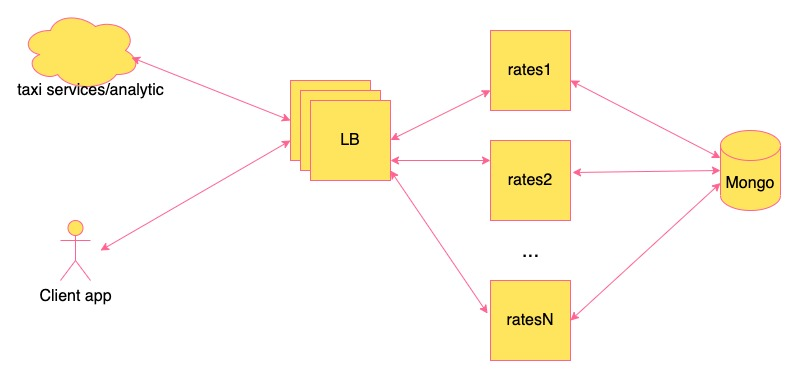
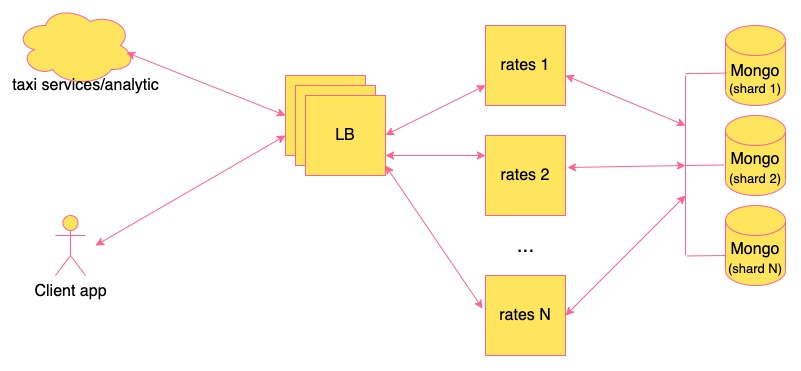
rating: Update last schema

diff --git a/nikita-vasilev/solution.md b/nikita-vasilev/solution.md
@@ -50,17 +50,21 @@
 ![DB Schema](assets/mvp_dp_schema.jpg)
 
 ### Полноценный сервис
-Для того, чтобы подготовить наш сервис к нагрузке, добавим балансировщики (LB) и размажем нагрузку на несколько инстансов (контейнеров).  
-Для выбора кол-ва инстансов проведем нагрузочное тестирование.
+Для того, чтобы подготовить наш сервис к нагрузке:
+- добавим балансировщики (LB), сконфигурированные через DNS.
+- размажем нагрузку на несколько инстансов (контейнеров).  
+
+Для выбора кол-ва LB/инстансов проведем нагрузочное тестирование.
 
 Захардкоженную констану `40` (лимит кол-ва последних оценок при вычислении рейтинга)
 вынесем в адмику основной системы. Добавим обращение в админку при старте сервиса и добавим ручку для подцепления конфига из админки.
 
 В качесве базы перейдем на MongoDB, т.к у нас:
-- результаты построения MVP показывают, что нет необходимости в реляционной БД
+- результаты построения MVP показывают, что нет необходимости в реляционной БД, т.к таблицы получились независимыми (self-contained).
 - проще масштабируется
 
-Интерфейс взаимодействия с внешним миром остается таким же как и в MVP варианте.
+Интерфейс взаимодействия с внешним миром остается таким же как и в MVP варианте (за исключением интеграции админки).
+В Mongo настроим шардирование.
 
 ![DB Schema](assets/service.jpg)
 
